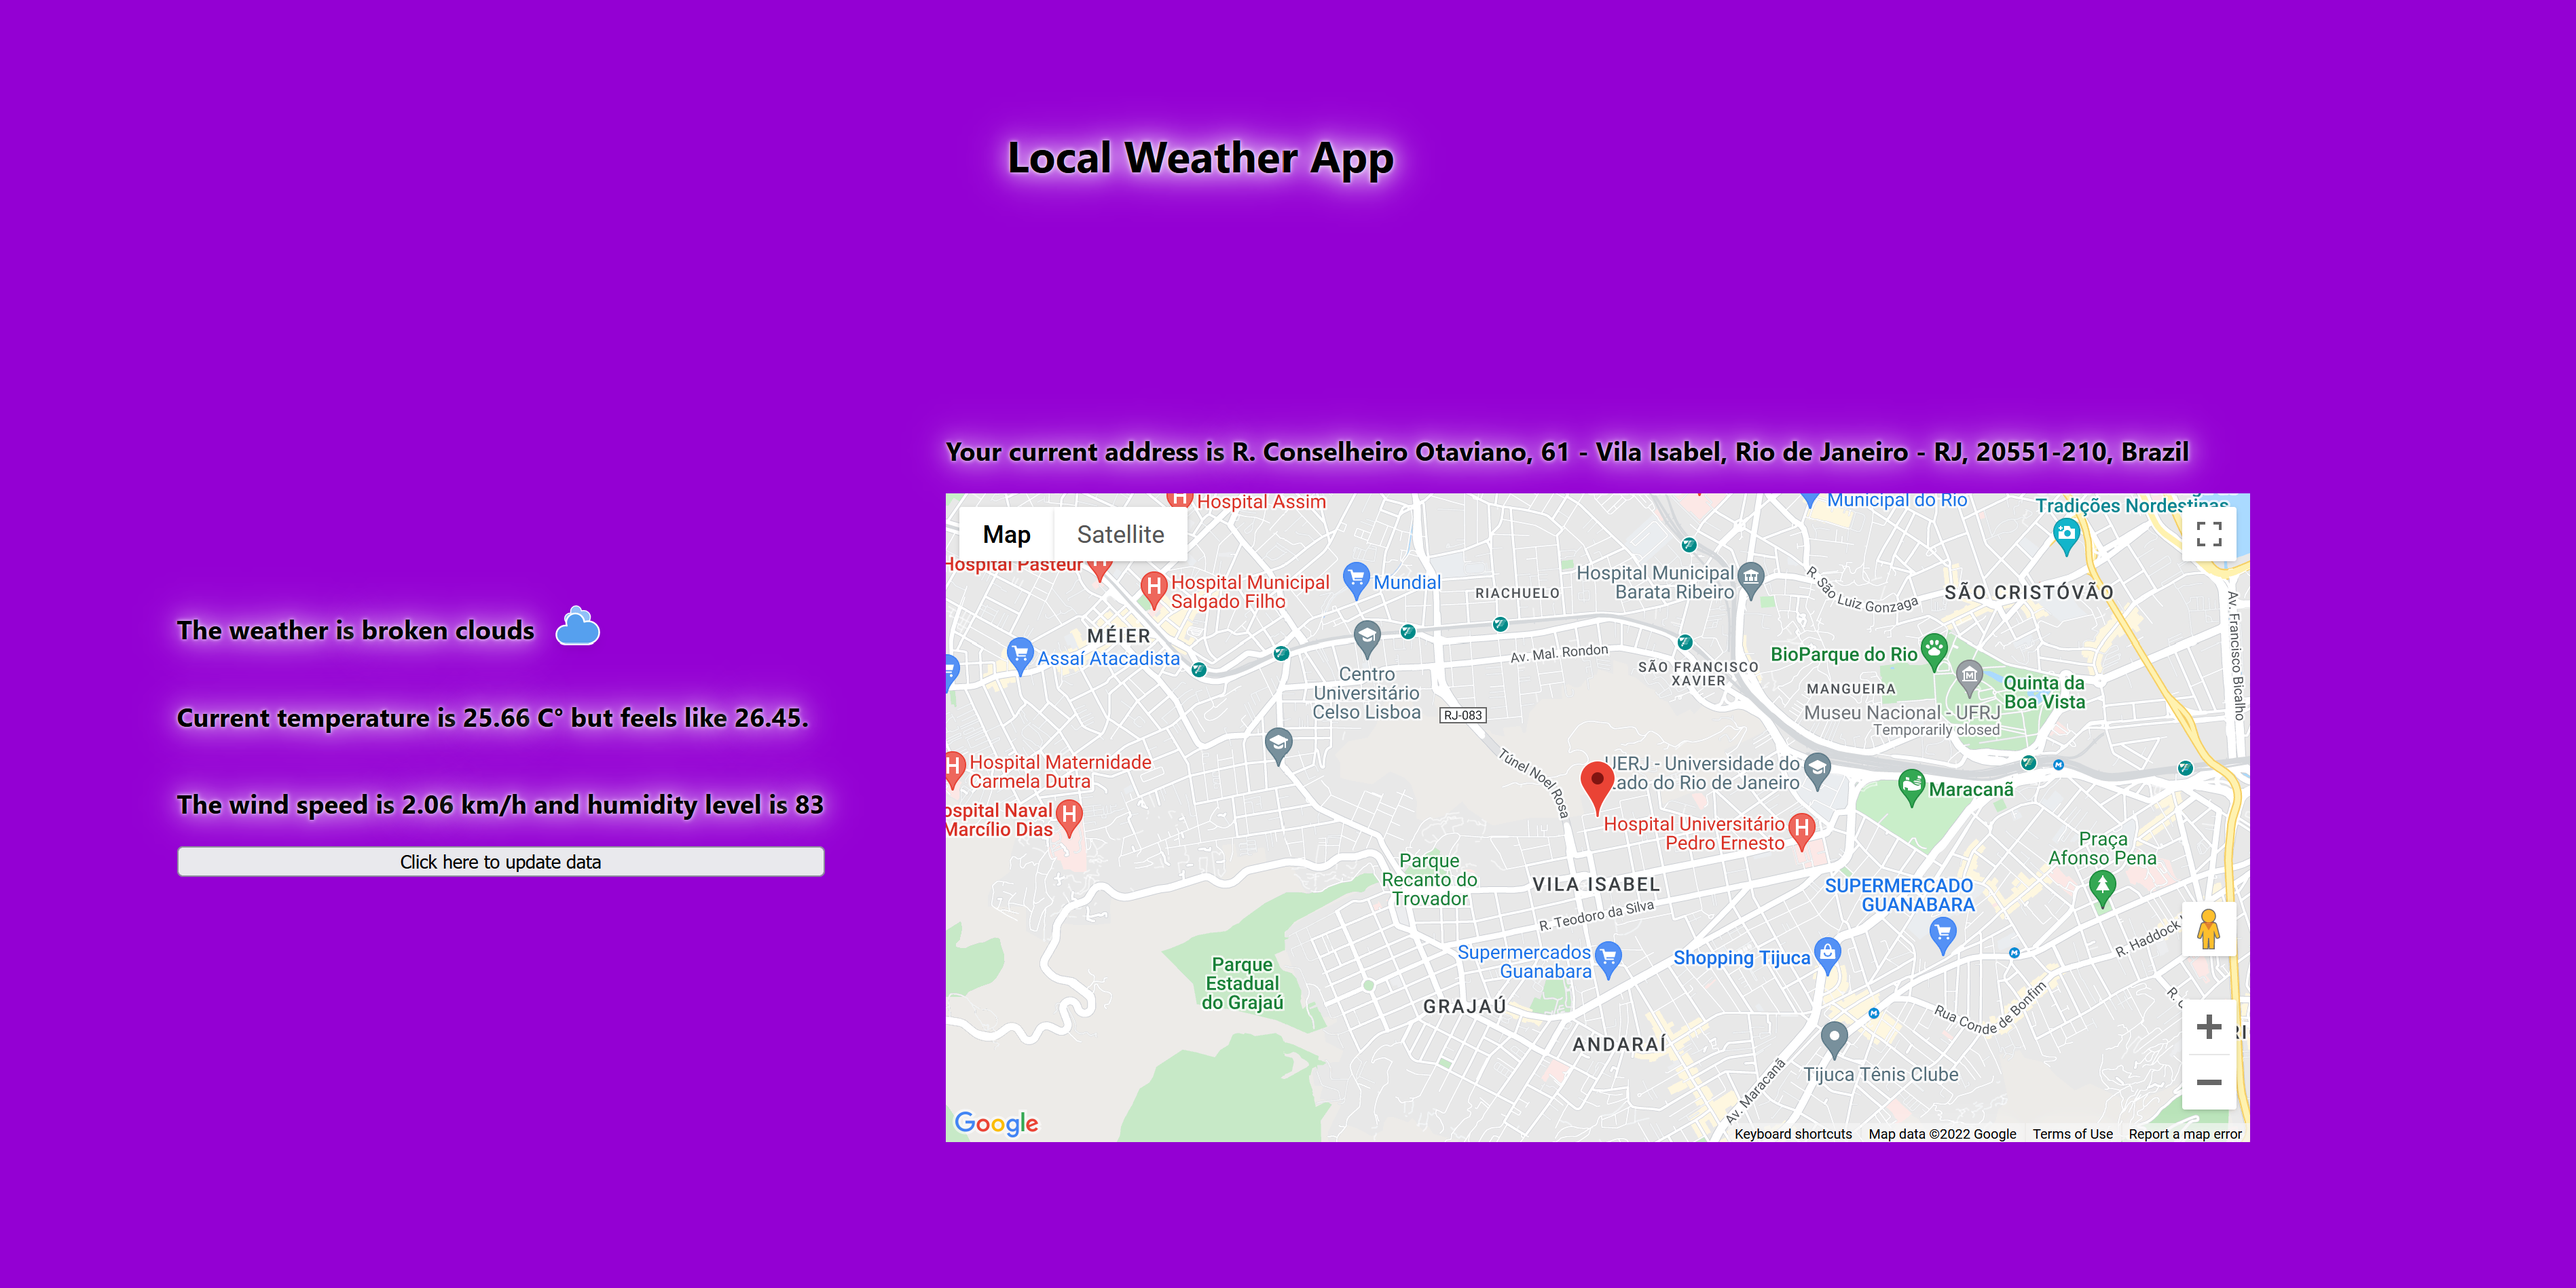
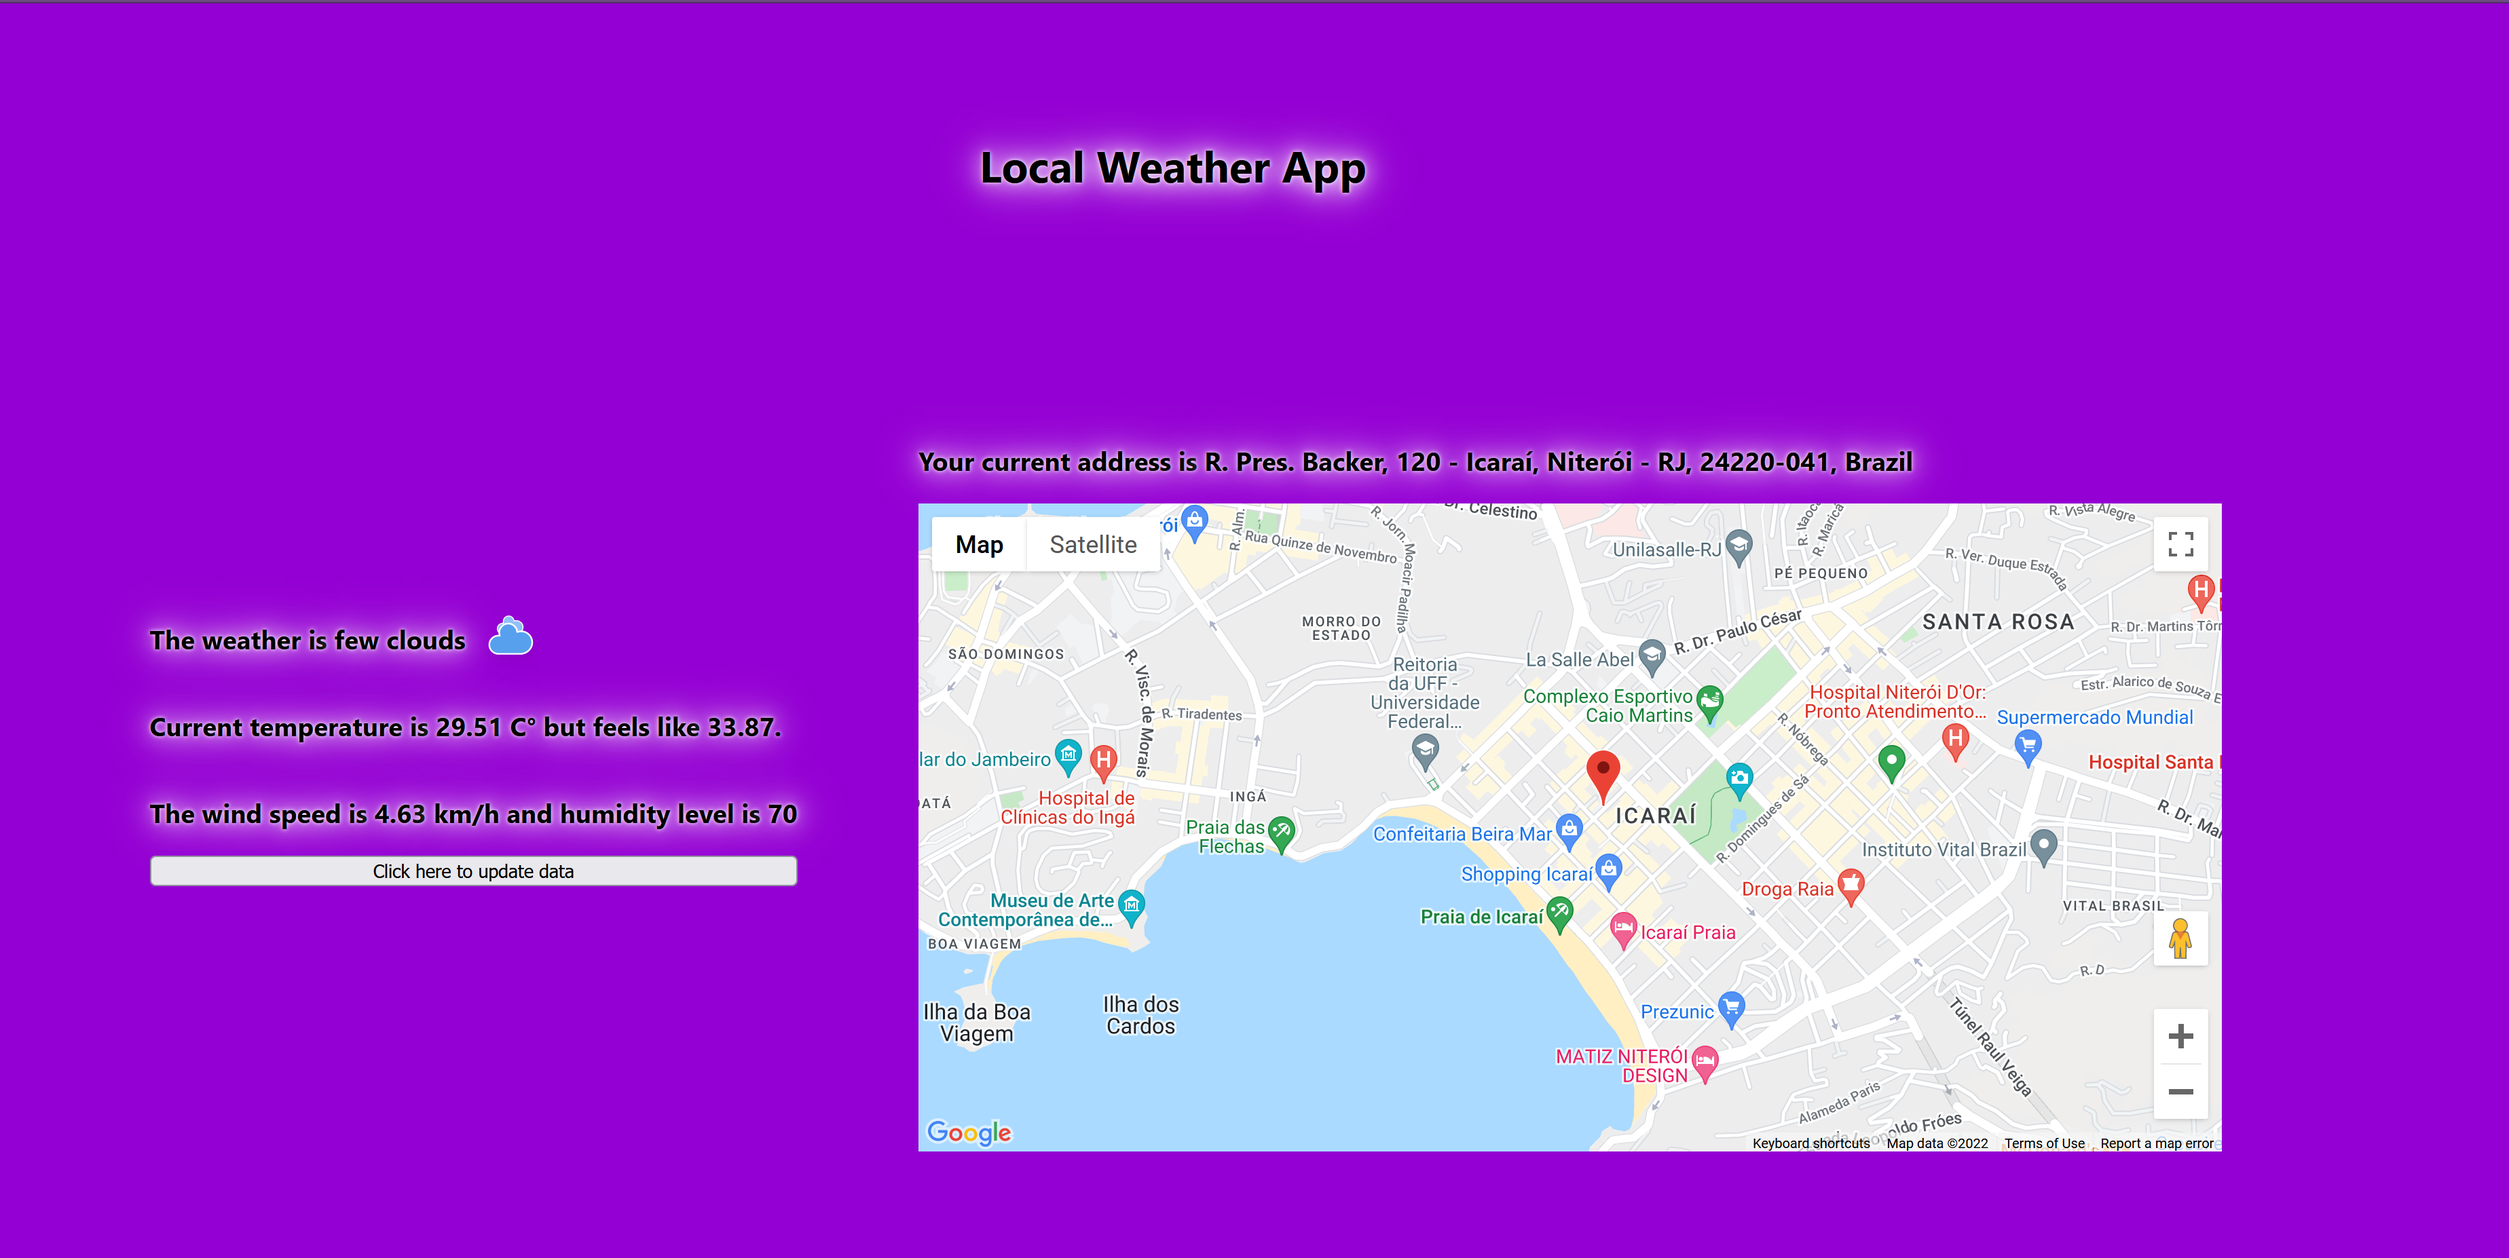
adds dynamic map location updating

Changed region(s): [[0.0311, 0.3074, 0.9023, 0.9223], [0.3734, 0.0922, 0.5601, 0.1845]]

diff --git a/src/Map/Map.jsx b/src/Map/Map.jsx
@@ -10,15 +10,20 @@ export class MapContainer extends Component {
   state = {
     showingInfoWindow: false,  // Hides or shows the InfoWindow
     activeMarker: {},          // Shows the active marker upon click
-    selectedPlace: {}          // Shows the InfoWindow to the selected place upon a marker
+    selectedPlace: {},         // Shows the InfoWindow to the selected place upon a marker
+    currentPosition: {
+      lat: this.props.lat,
+      lng: this.props.lon
+    }
   };
 
-  onMarkerClick = (props, marker, e) =>
+  onMarkerClick = (props, marker, e) => {
     this.setState({
       selectedPlace: props,
       activeMarker: marker,
       showingInfoWindow: true
     });
+  }
 
   onClose = props => {
     if (this.state.showingInfoWindow) {
@@ -27,6 +32,15 @@ export class MapContainer extends Component {
         activeMarker: null
       });
     }
+  };
+
+  onMarkerDragEnd = (coord) => {
+    const { latLng } = coord;
+    const lat = latLng.lat();
+    const lng = latLng.lng();
+    const currentPosition = {lat, lng};
+    this.setState({currentPosition});
+    this.props.setPosition(lat, lng);
   };
 
   render() {
@@ -44,6 +58,9 @@ export class MapContainer extends Component {
       >
         <Marker
           onClick={this.onMarkerClick}
+          position={this.state.currentPosition}
+          onDragend={(t, map, coord) => this.onMarkerDragEnd(coord)}
+          draggable={true}
         />
         <InfoWindow
           marker={this.state.activeMarker}

diff --git a/src/App.js b/src/App.js
@@ -51,7 +51,18 @@ function App() {
       getLocation();
       getCurrentWeatherData();
     }
-  )
+  );
+  
+  const setPosition = useCallback(
+    (lat, lon) => {
+      console.log('lat:', lat, 'lon', lon);
+      setLatitude(lat);
+      setLongitude(lon);      
+      getCurrentWeatherData();
+    }
+  );
+
+
 
   useEffect(() => {
     getLocation();
@@ -95,7 +106,7 @@ function App() {
 
         <div className='map-container'>
           {address && (<p>Your current address is {address}</p>)}
-          <Map lat={latitude} lon={longitude}/>
+          <Map lat={latitude} lon={longitude} setPosition={setPosition} />
         </div>
       </div>
       }
